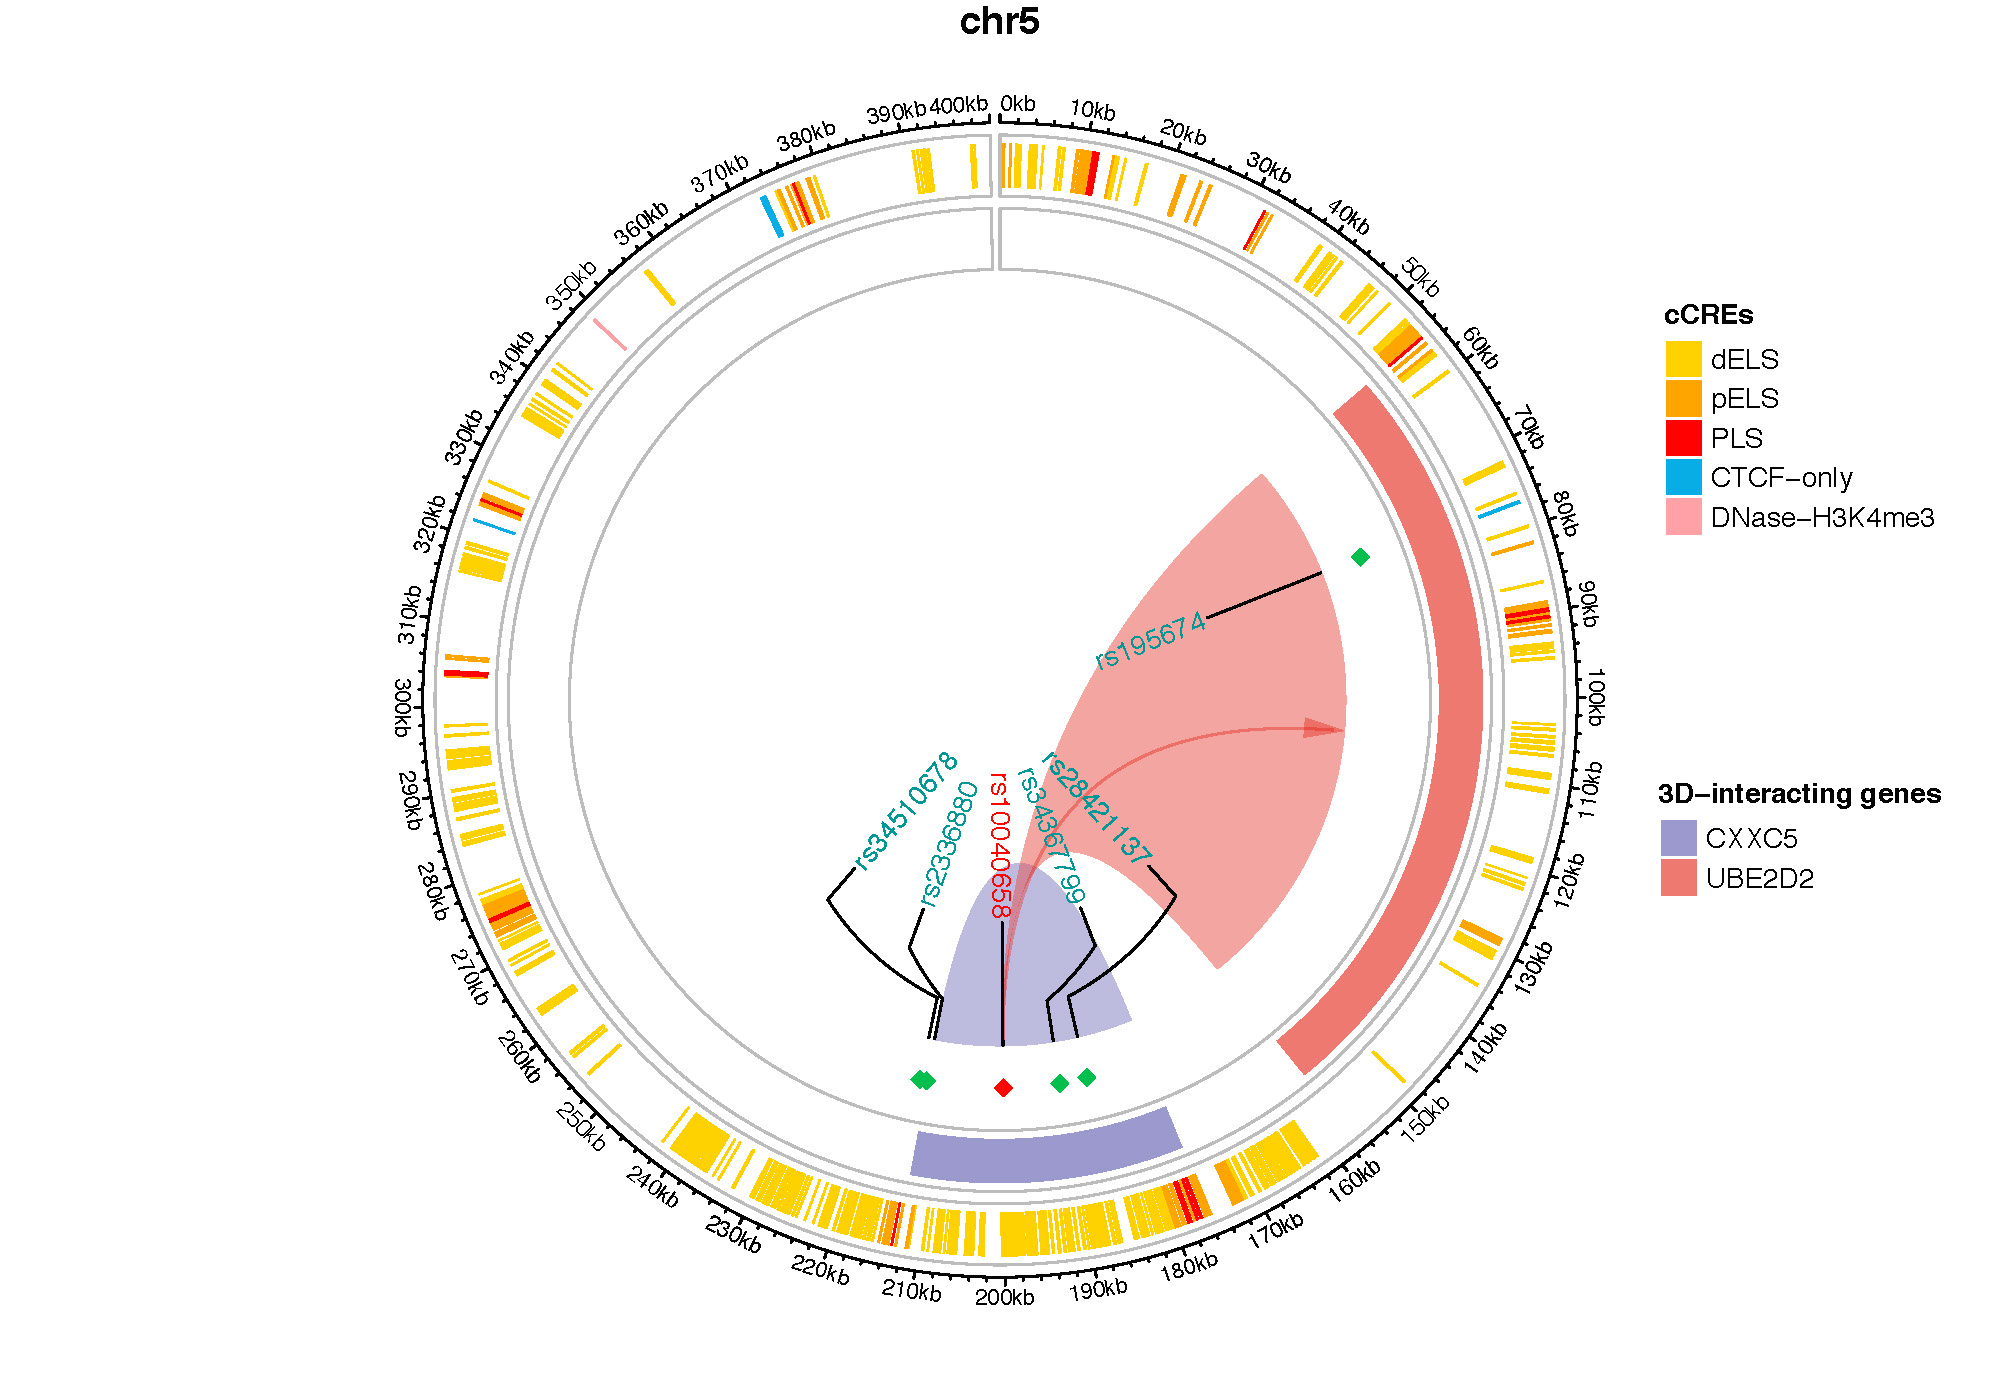
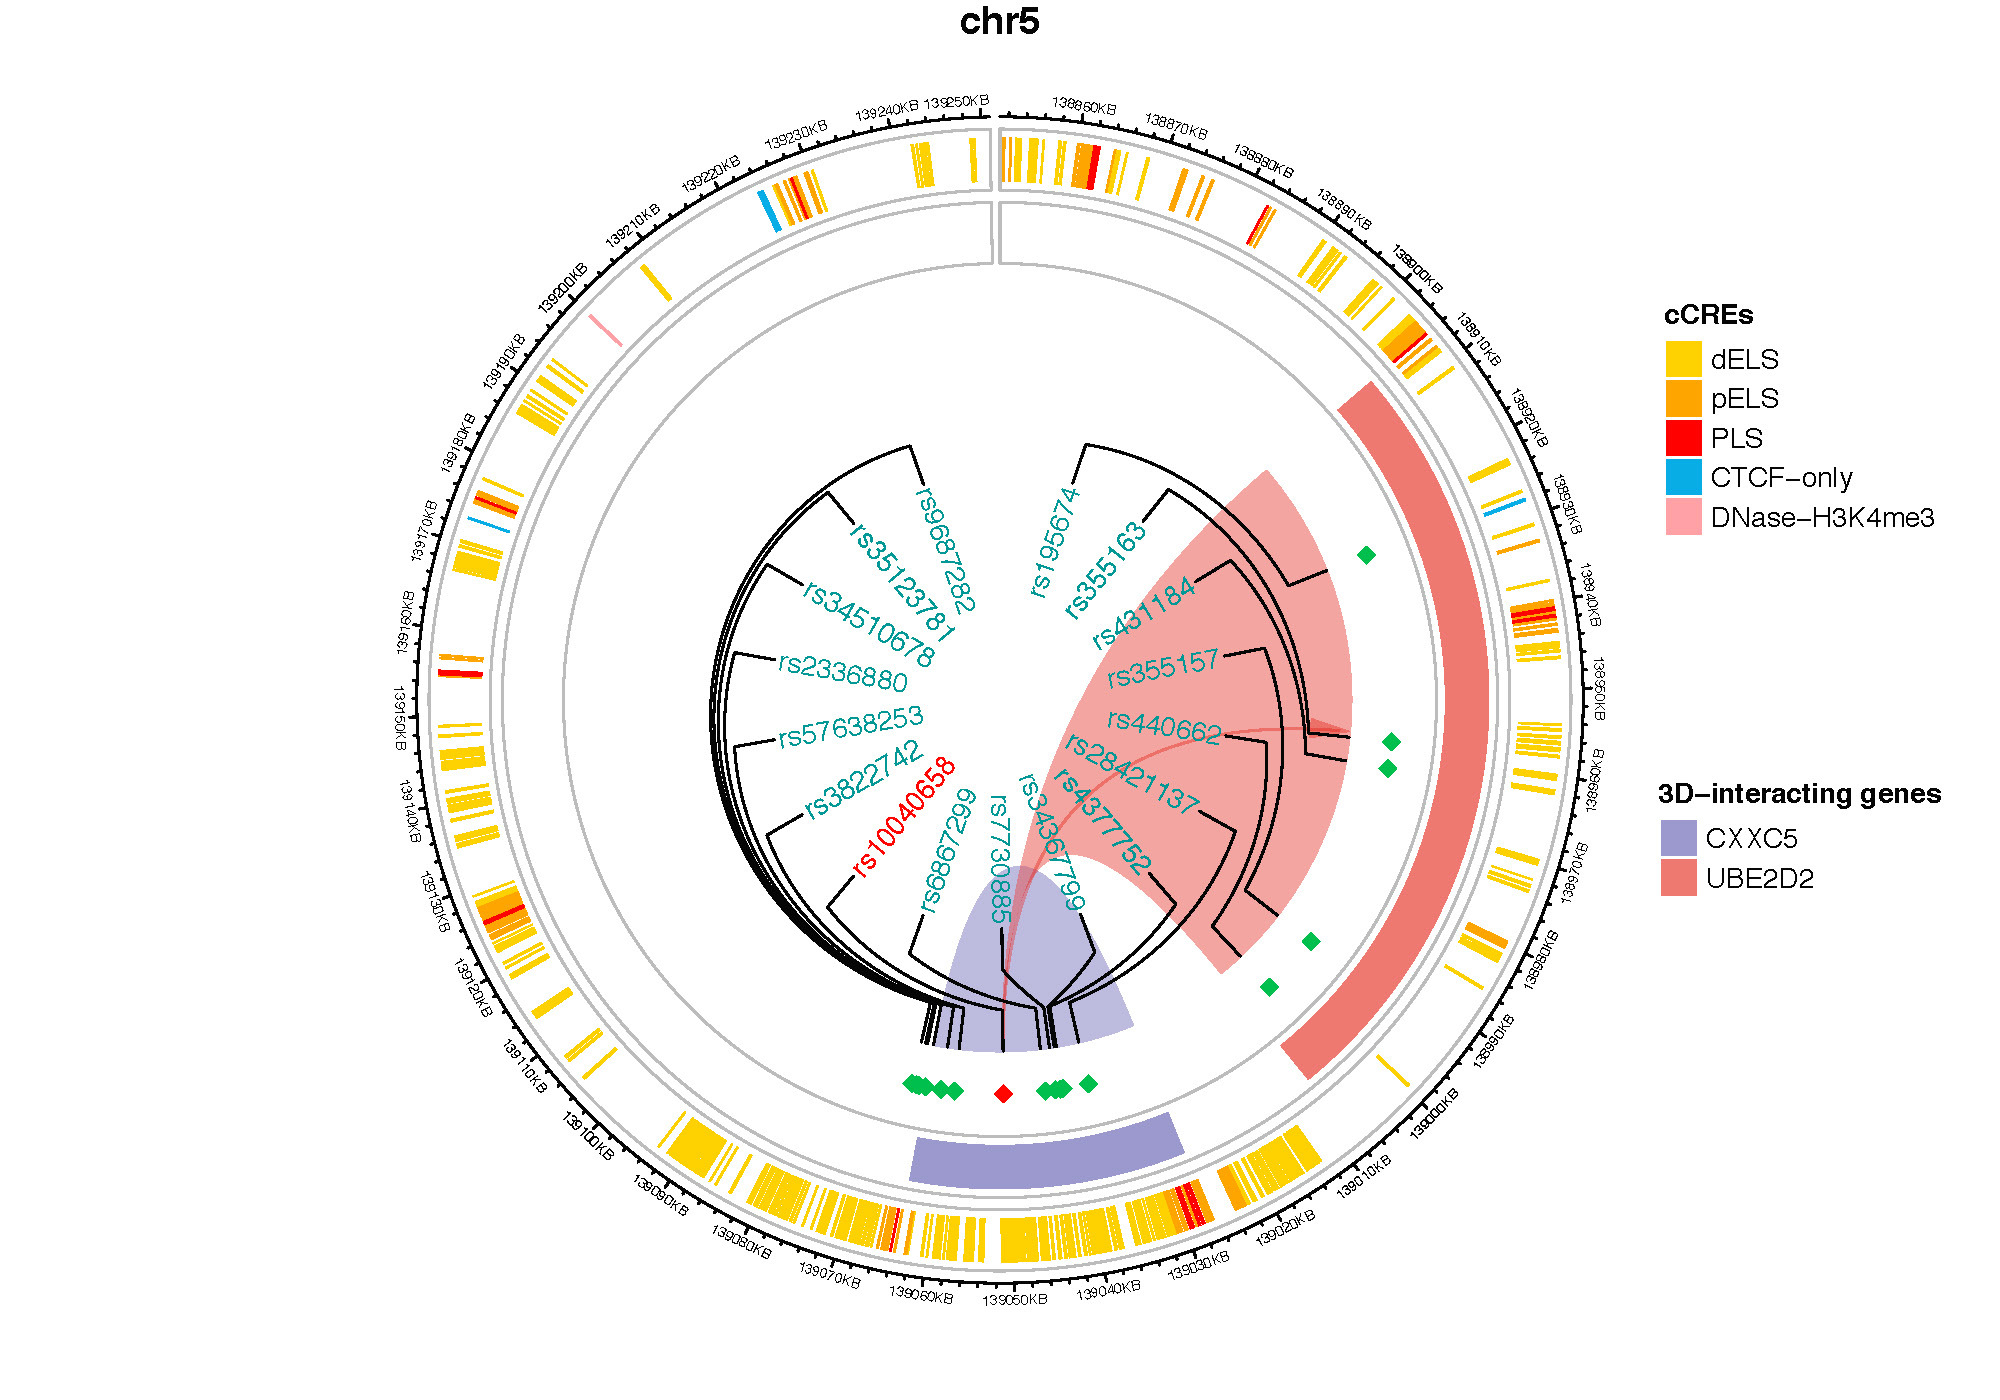
update

diff --git a/README.md b/README.md
@@ -11,6 +11,33 @@ Single-nucleotide polymorphism (SNP) is an important topic for most genetic asso
 devtools::install_github("Liying1996/ViSNP")
 ```
 
+If the installation of these dependent packages fails, please install the following packages first:
+
+* liftOver
+
+* biomaRt 
+
+* ComplexHeatmap
+
+* enrichplot
+
+* clusterProfiler
+
+* bedtoolsr
+
+If the following warning occurs:
+
+```
+Warning in value[[3L]](cond) :
+  bedtools does not appear to be installed or not in your PATH. If it is installed, please add it to your PATH or run
+```
+
+please add the path of bedtools, for example (This package is required for Function `analyze_ccre_enrich`and `plot_batch_cCREs`; you can skip it if you don't need):
+
+```
+options(bedtools.path = "~/anaconda3/bin/")
+```
+
 ## 3. **Functions of the package**
 
 Workflow.
@@ -30,12 +57,11 @@ Workflow.
 `verbose`: Whether to show the intermediate process. Default is FALSE.
 
 
-
-
 ```{r}
-info_table <- query_snp("rs1891906")
-info_table <- query_snp("chr1:950243", input_type="hg19")
-info_table <- query_snp("chr1:1014863 ", input_type="hg38")
+# info_table <- query_snp("rs1891906")
+info_table <- query_snp("rs10040658")
+info_table <- query_snp("chr5:139051015", input_type="hg19")
+info_table <- query_snp("chr5:139671430", input_type="hg38")
 ```
 
 Output:
@@ -86,7 +112,7 @@ get_snp_loc("rs10040658", 'hg38')
 Return the ENCODE SCREEN (https://screen.encodeproject.org/) cCREs (candidate cis-regulatory elements) that SNPs overlapped.
 
 ```{r}
-snp <- "rs1059196"
+snp <- "rs10040658"
 cCRE_intersect <- get_snp_ccre(snp)
 # get_snp_ccre("chr22:19724571", input_type = "hg38", output_assembly = "hg38")
 ```
@@ -268,7 +294,7 @@ Heatmap:
 
 ![](https://github.com/Liying1996/ViSNP/blob/master/example_figs/8_ld_heatmap.png)
 
-#### ***plot_snp_circos(snp_info_table, window_size=2e5, output_assembly = "hg19", savefile="circos.pdf")***
+#### ***plot_snp_circos(snp_info_table, output_assembly = "hg19", window_size=2e5, circos_pos="Relative", savefile="circos.pdf")***
 
 Return the circos plot.
 
@@ -277,6 +303,10 @@ Return the circos plot.
 `output_assembly` Optional. The version of chromosome coordinates of output circos plots. Default is "hg19".
 
 `window_size` Optional. Window size around the SNP displayed. Default is 2e5. `savefile` Optional. The filename of the circos plot.
+
+`circos_pos` Optional. Circos plot coordinate position. You can choose 'Relative' or 'Absolute'. Relative position represents the window range (0-window_size) of the input SNP, while absolute position is the actual genomic coordinates. The default is 'Relative'.
+
+`circos_pos` Optional. Circos plot coordinate position. You can choose 'Relative' or 'Absolute'. Relative position represents the window range (0-window_size) of the input SNP, while absolute position is the actual genomic coordinates. The default is 'Relative'.
 
 ```{r}
 info_table <- query_snp("rs1059196")
@@ -290,7 +320,7 @@ plot_snp_circos(snp_info_table=info_table, window_size = 1e5, savefile="~/test/c
 
 ```
 info_table <- query_snp("rs10040658")
-plot_snp_circos(snp_info_table=info_table, savefile="~/test/circos3.pdf")
+plot_snp_circos(snp_info_table=info_table, circos_pos="Absolute", savefile="~/test/circos3.pdf")
 ```
 
 ![](https://github.com/Liying1996/ViSNP/blob/master/example_figs/9_circos2.jpg)
